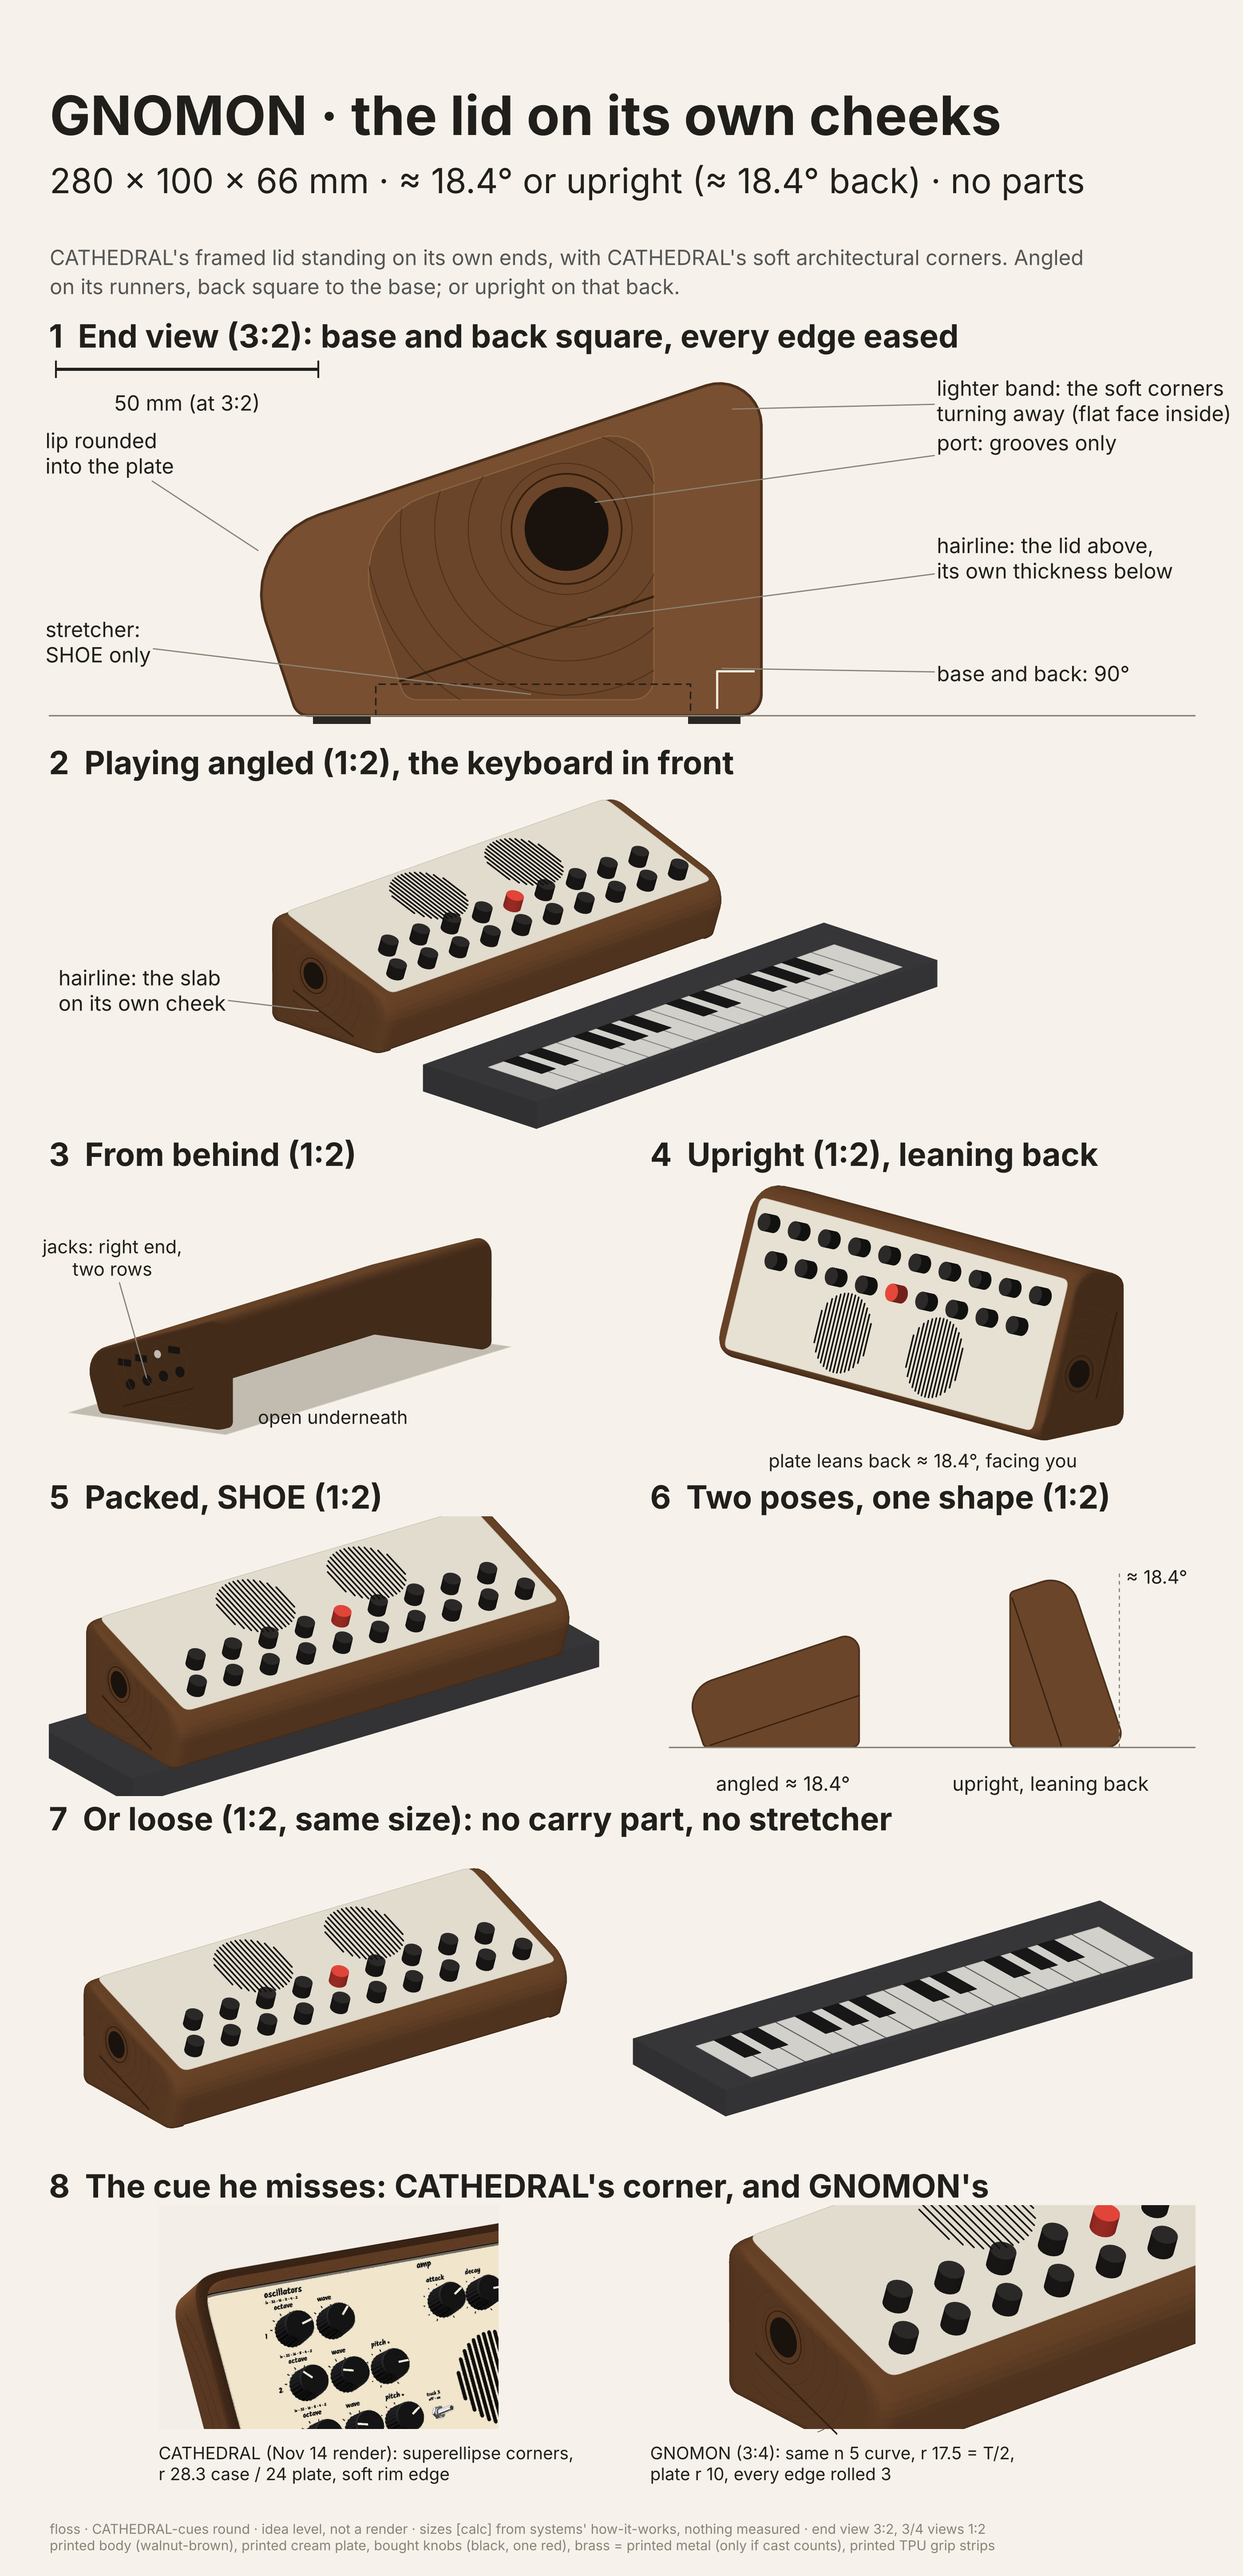
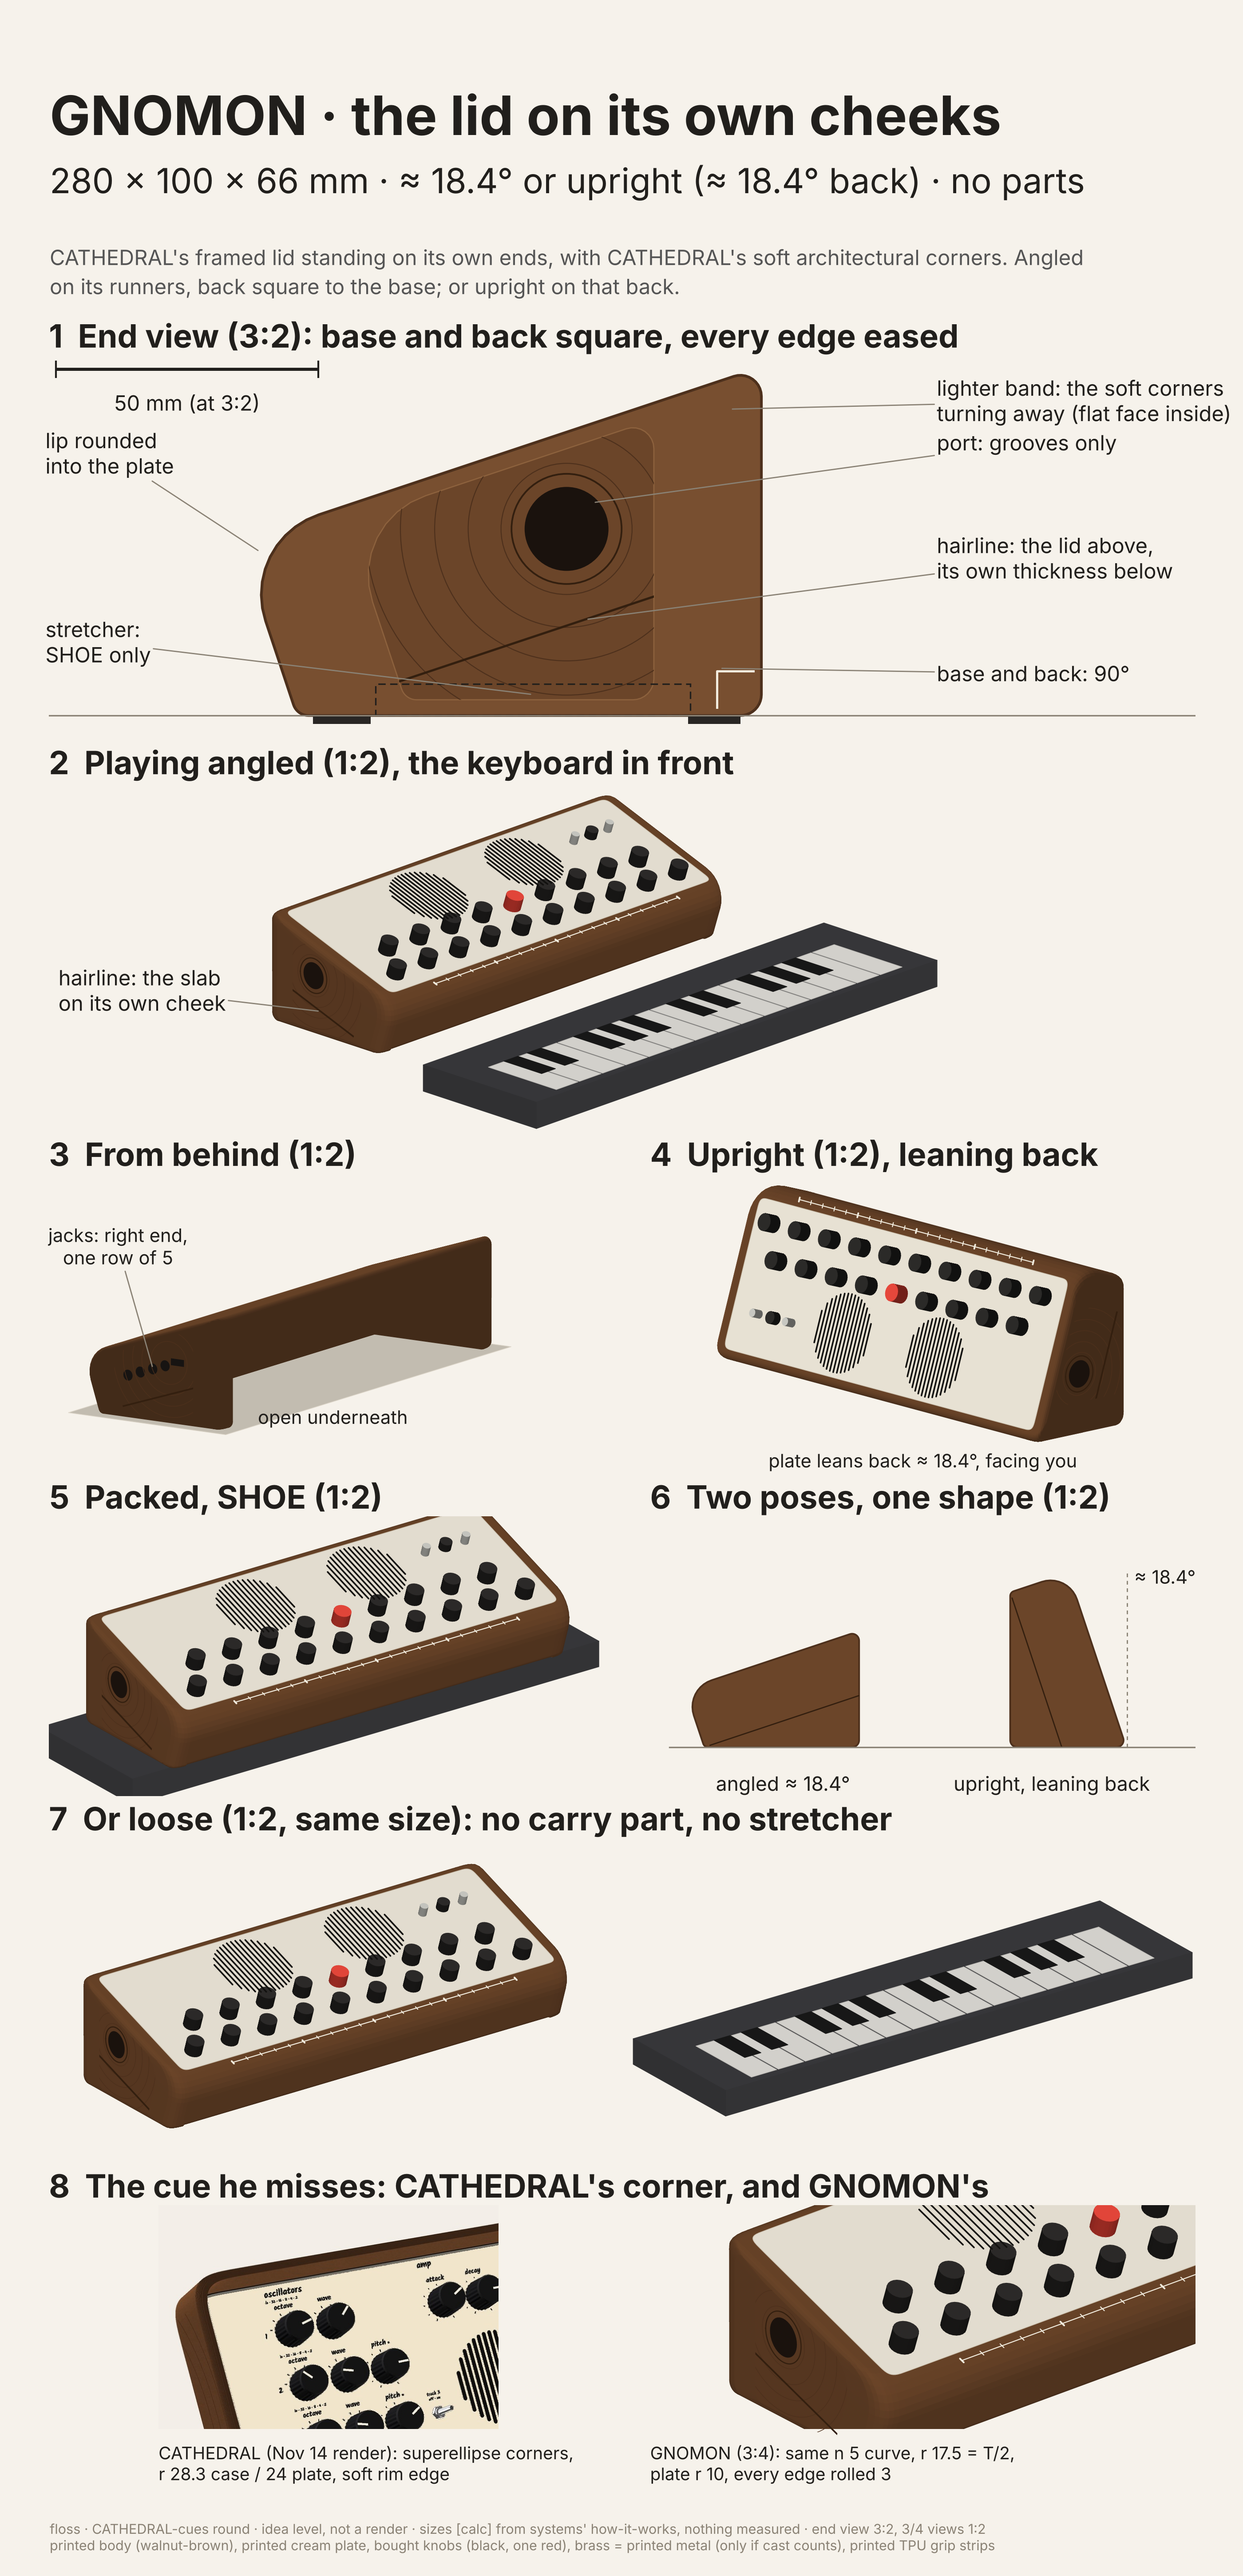
floss: GNOMON rev 5 sheet with systems fixes

Changed region(s): [[0.0311, 0.4681, 0.1554, 0.5617], [0.5904, 0.1248, 0.6214, 0.156], [0.3418, 0.7178, 0.3729, 0.749]]

diff --git a/floss/design/concepts/_src/cathedral_sheets.py b/floss/design/concepts/_src/cathedral_sheets.py
@@ -445,17 +445,16 @@ def sheet_gnomon(path):
     dang = -math.pi/2
     Rq = (bt[0], 0.0)
     Hc = (bt[0], bt[0]*sth/cth)                       # slab underside meets the vertical back
-    RAD_U = [3, 4, 8, 16]                              # fb, Rq, bt, ft
-    RAD_S = [3, 0.6, 8, 16]                            # fb, Hc, bt, ft
+    RAD_U = [3, 4, 4, 16]                              # fb, Rq, bt (upright tipping edge: r <= 4, systems rev 5), ft
+    RAD_S = [3, 0.6, 4, 16]                            # fb, Hc, bt, ft
     QU = [fb, Rq, bt, ft]; QS = [fb, Hc, bt, ft]
     prof0 = fillet_radii(QU, RAD_U)
     port0 = (fb[0] + 60*cth - 17.5*sth, fb[1] + 60*sth + 17.5*cth)
     hair0 = [(fb[0]+3.5*cth, fb[1]+3.5*sth), (Hc[0]-0.3*cth, Hc[1]-0.3*sth)]
-    jk0 = []
-    for row, hh in enumerate((11.0, 24.0)):
-        for i, kind in enumerate((["usb", "sw", "pot", "sw"], ["j", "j", "j", "j"])[row]):
-            t = 30 + i*12
-            jk0.append((ft[0] + t*cth + hh*sth, ft[1] + t*sth - hh*cth, kind))
+    jk0 = []      # systems rev 5: one row of 5 (phones, line, MIDI in, MIDI out, device USB-C), 18.5 below the plate
+    for i, kind in enumerate(["j", "j", "j", "j", "usb"]):
+        t = 30 + i*9
+        jk0.append((ft[0] + t*cth + 18.5*sth, ft[1] + t*sth - 18.5*cth, kind))
 
     def section(quad, rad, d):
         pl = squircle_delta(d, RPLAN); rl = roll_delta(d, ROLL)
@@ -575,6 +574,16 @@ def sheet_gnomon(path):
         L4 = sc.layer()
         for x in xs1: knob(L4, cam, P, n, x, 22)
         for i, x in enumerate(xs2): knob(L4, cam, P, n, x, 42, col=RED if i == 4 else BLACK)
+        # power, TUNE, MIDI SPLIT moved onto the plate (systems rev 5), at its right end behind the knob rows
+        knob(L4, cam, P, n, 222, 74, col=(0.62, 0.62, 0.60), d=4.5, h=6)      # split toggle
+        knob(L4, cam, P, n, 236, 74, col=BLACK, d=7, h=5)                     # TUNE
+        knob(L4, cam, P, n, 250, 74, col=(0.62, 0.62, 0.60), d=4.5, h=6)      # power toggle
+        # split-target rail on the plate's front rim
+        L5 = sc.layer()
+        add_line(L5, cam, [P(40, 4.6, 0.4), P(W-40, 4.6, 0.4)], CREAM, 0.8)
+        for i in range(21):
+            sx = 40 + i*(W-80)/20
+            add_line(L5, cam, [P(sx, 3.4, 0.4), P(sx, 5.8, 0.4)], CREAM, 0.8 if i % 5 else 1.4)
         if kb_front: keyboard(sc, cam, W/2-KB_W/2, -KB_D-60)
 
     T0, prof, port, hair, ftt, th, jk = geo(ident)
@@ -623,8 +632,8 @@ def sheet_gnomon(path):
     box_mm = (14, 225+SH, 160, 84)
     heading(fig, box_mm, "3  From behind (1:2)")
     cpt = camr.p((W/2, 55, 30)); ax = axes_mm(fig, box_mm, 0.5, (cpt[0]+10, cpt[1]+6)); scr.draw(ax)
-    jp = camr.p((W, jk[5][0][0], jk[5][0][1]))
-    leader(ax, jp, "jacks: right end,\ntwo rows", (jp[0]-20, jp[1]+70), size=SML-2, ha="center")
+    jp = camr.p((W, jk[2][0][0], jk[2][0][1]))
+    leader(ax, jp, "jacks: right end,\none row of 5", (jp[0]-20, jp[1]+70), size=SML-2, ha="center")
     hp = camr.p((W/2, 70, 0))
     ax.text(hp[0], hp[1]-22, "open underneath", ha="center", fontsize=SML-2, color=INK)
     # 4. upright

diff --git a/floss/design/concepts/c-gnomon/how-it-looks-and-feels.md b/floss/design/concepts/c-gnomon/how-it-looks-and-feels.md
@@ -29,7 +29,7 @@
 **What I changed (all on the surface; rev 4's poses stay as he set them):**
 - **Plan corners:** the same n = 5 superellipse at all four corners of the slab and cheeks (the end faces turning into the front and the back). **r = T/2 = 17.5**, CATHEDRAL's own proportion: 28.3 on a 55.2 case is ≈ half its thickness [calc].
 - **Plate:** the cream field's corners are concentric superellipses, r 10. The walnut frame shows on all four sides, ≈ 8 at the ends.
-- **Long edges eased:** lip r 16 (unchanged), back-top r 8 (was 6), front foot r 3. **The base-to-back corner stays a tight r 4**, so his 90° still reads as square.
+- **Long edges eased:** lip r 16 (unchanged), front foot r 3. **The top-back edge stays at r 4:** it's the upright foot's tipping edge, and systems found r 8 drops the pull-to-tip to 1.64 N (rev 5 check). **The base-to-back corner is also a tight r 4**, so his 90° still reads as square.
 - **Every edge of each end face rolled 3 mm,** so the ends read as one soft block. In the end view, the lighter band is the rounding turning away and the darker field is the flat face. The growth rings and the hairline sit on the flat face.
 - **Not blobby:** the end-view silhouette is unchanged, and the rounding is ≈ 6 % of the length. No round masses (the lesson of DROP).
 - **On the sheet:** view 8 sets a crop of CATHEDRAL's standing render beside GNOMON's corner at 3:4, so he can judge them side by side.
@@ -37,7 +37,7 @@
 **For systems to check: geometry systems owns that the rounding changes** ([calc], UNVERIFIED):
 1. **End faces:** the flat end face shrinks. In the slab band it's ≈ 64 long instead of ≈ 105, because ≈ 20.5 comes off at the front and at the back.
    - **The port mouth moves forward** to ≈ 60 along the plate (was ≈ 80), so the mouth and its groove sit on the flat.
-   - **The jacks (8 items) become two rows of 4** at ≈ 12 pitch, ≈ 11 and ≈ 24 below the plate, about 30–66 along it. One row at 12 pitch (≈ 96) no longer fits the flat.
+   - **Jacks (systems rev 5, drawn):** one row of 5 on the right end face, centred ≈ 18.5 below the plate: phones, line, MIDI in, MIDI out, device USB-C. **Power, TUNE and MIDI SPLIT move onto the plate,** drawn as two small toggles and a small knob at the plate's right end behind the knob rows. **The split-target rail moves to the plate's front rim,** drawn as a fine cream scale on the walnut rim in front of the field.
 2. **Back (the upright foot):** the flat contact runs ≈ 245 instead of 280, with rounded ends. The TPU strips get shorter. That matters for side-to-side upright stability, not front-to-back.
 3. **Runners:** the 3 mm roll on the outer edge leaves ≈ 7 of each 10 mm cheek flat, so ground pressure on grass rises (≈ 3.8 → ≈ 5.4 kPa if the cheeks are the only contact). At the very ends the runner contact also curves away with the plan corner.
 4. **Footprint:** still ≈ 280 × 88.5, now with rounded corners. The front foot line is shortened at its ends.
@@ -86,7 +86,8 @@ Turn it onto that back and it stands upright, with the plate offered up to you a
 
 ## Ports, as drawn
 - **Port mouth:** left end, slab band, ≈ 60 along the plate (moved forward to sit on the flat end face).
-- **Jacks, power, device USB-C, TUNE, split:** two rows of four in the slab band of the right end (the flat is shorter now).
+- **Jacks:** one row of 5 in the slab band of the right end (phones, line, MIDI in, MIDI out, device USB-C).
+- **On the plate:** power, TUNE and MIDI SPLIT at its right end; the split-target rail on its front rim.
 - **Host USB-C:** on the front face, which is on top when upright (not drawn at this scale).
 - **Back:** the upright foot, with TPU strips and nothing mounted.
 

diff --git a/floss/design/notes/visual.md b/floss/design/notes/visual.md
@@ -525,3 +525,12 @@ Rev 4 was a sharp extrusion.
 - the cheek thickness of 10 is my assumption.
 
 **Next:** systems checks those, then the director, then the owner.
+
+---
+
+## 2026-11-22: GNOMON rev 5, systems' check folded in
+- The top-back edge goes back to r 4: it's the upright tipping edge, and r 8 cut pull-to-tip to 1.64 N.
+- Jacks: one row of 5 on the right end (phones, line, MIDI in, MIDI out, device USB-C), ≈ 18.5 below the plate.
+- Power, TUNE and MIDI SPLIT move onto the plate's right end (two small toggles and a small knob).
+- The split-target rail is now a fine cream scale on the plate's front rim.
+- `sheet.png` and the md are updated. Side speakers: assessed by systems, not recommended; nothing drawn.
